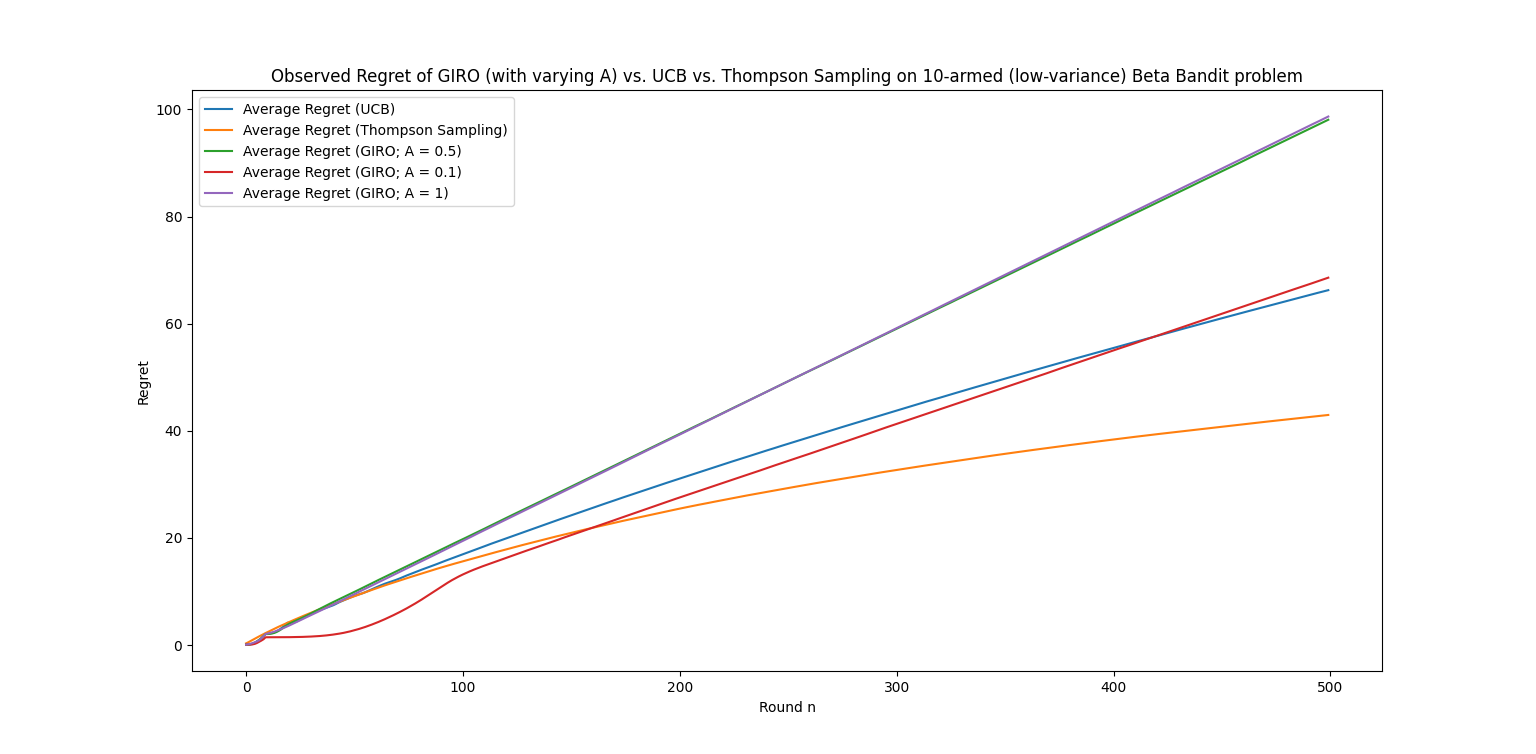
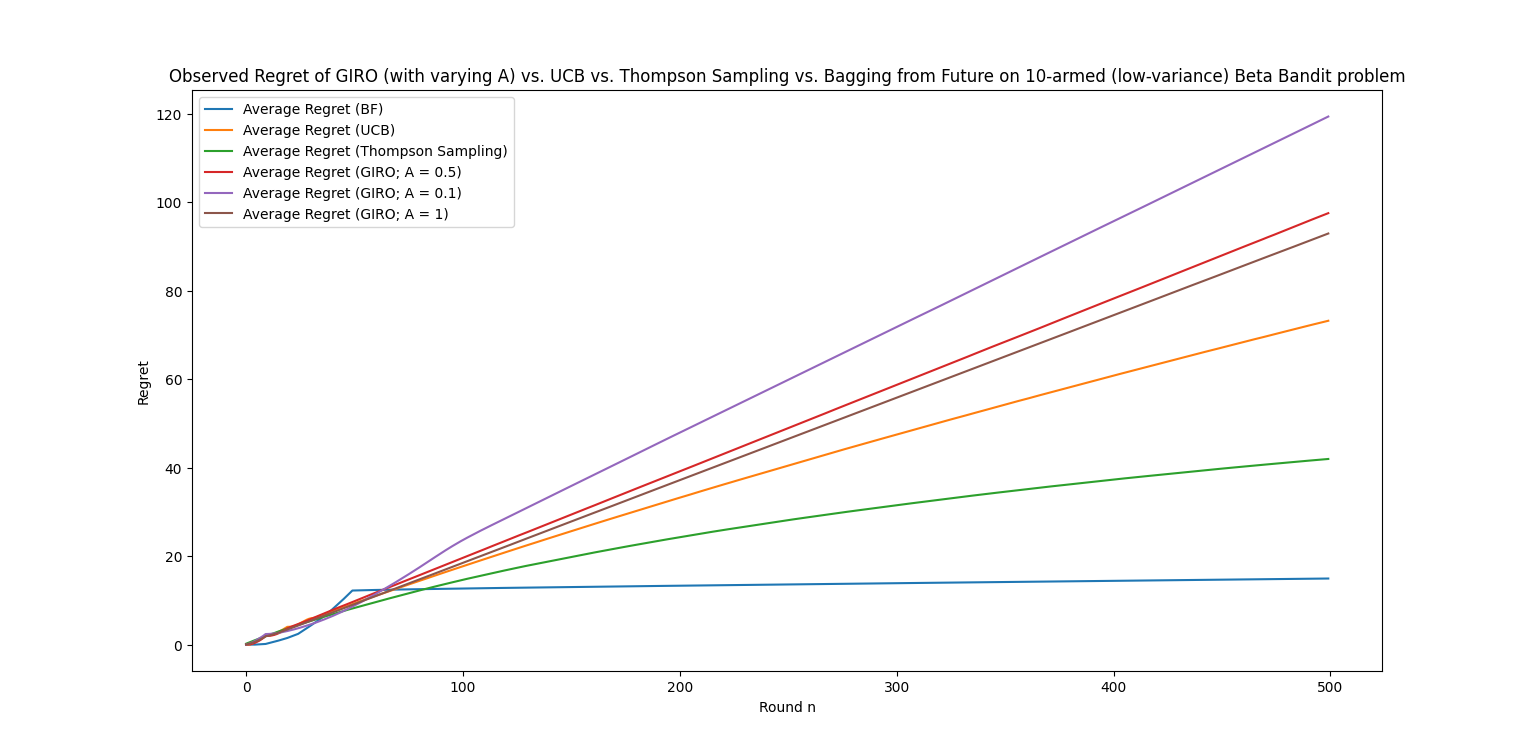
Added Bagging from Future

diff --git a/giro_non_contextual.py b/giro_non_contextual.py
@@ -6,7 +6,7 @@ import math
 
 def GIRO_arm_estimates_factory_function(A):
 
-    def GIRO_arm_estimates_function(history, t):
+    def GIRO_arm_estimates_function(history, t, N):
         num_arms = len(history)
         arm_estimates_current_round = np.zeros(shape=K)
         for j in range(num_arms):
@@ -39,7 +39,7 @@ def GIRO_arm_estimates_factory_function(A):
     return GIRO_arm_estimates_function
 
 
-def UCB_arm_estimates_function(history, t):
+def UCB_arm_estimates_function(history, t, N):
 
     num_arms = len(history)
     arm_estimates_current_round = np.zeros(shape=K)
@@ -58,7 +58,7 @@ def UCB_arm_estimates_function(history, t):
     return arm_estimates_current_round
 
 
-def TS_arm_estimates_function(history, t):
+def TS_arm_estimates_function(history, t, N):
     num_arms = len(history)
     arm_estimates_current_round = np.zeros(shape=K)
 
@@ -67,6 +67,27 @@ def TS_arm_estimates_function(history, t):
         alpha_j = np.count_nonzero(history[j])
         beta_j = s - alpha_j
         arm_estimates_current_round[j] = random.beta(alpha_j + 1, beta_j + 1, size=1)
+
+    return arm_estimates_current_round
+
+def bagging_from_future_arm_estimates(history, t, N):
+    num_arms = len(history)
+    arm_estimates_current_round = np.zeros(shape=K)
+
+    for j in range(num_arms):
+        s = len(history[j])
+
+        if (s < 5):
+            arm_estimates_current_round[j] = np.inf
+        else:
+            rewards = np.zeros(shape=N)
+            uniform_sample = random.randint(low = 0, high = s-1, size = N - s)
+            for i in range(N):
+                if (i < s):
+                    rewards[i] = history[j][i]
+                else:
+                    rewards[i] = history[j][uniform_sample[i-s]]
+            arm_estimates_current_round[j] = np.mean(rewards)
 
     return arm_estimates_current_round
 
@@ -110,7 +131,7 @@ def simulate_stochastic_bandit_problem(K, T, generate_reward, compute_arm_estima
 
         for i in range(T):
             # estimate arm values 
-            arm_estimates_current_round = compute_arm_estimates(history, i)
+            arm_estimates_current_round = compute_arm_estimates(history, i, T)
 
             # get maximum estimate 
             # of the pulled arm
@@ -143,36 +164,39 @@ def simulate_stochastic_bandit_problem(K, T, generate_reward, compute_arm_estima
 T = 500
 K = 10
 
+plt.plot(range(T), simulate_stochastic_bandit_problem(K = K, T = T, generate_reward = bernoulli_bandit, compute_arm_estimates = bagging_from_future_arm_estimates), label="Average Regret (BF)")
 plt.plot(range(T), simulate_stochastic_bandit_problem(K= K, T = T, generate_reward = bernoulli_bandit, compute_arm_estimates = UCB_arm_estimates_function), label="Average Regret (UCB)")
 plt.plot(range(T), simulate_stochastic_bandit_problem(K= K, T = T, generate_reward = bernoulli_bandit, compute_arm_estimates = TS_arm_estimates_function), label="Average Regret (Thompson Sampling)")
 plt.plot(range(T), simulate_stochastic_bandit_problem(K = K, T = T, generate_reward = bernoulli_bandit, compute_arm_estimates = GIRO_arm_estimates_factory_function(0.5)), label="Average Regret (GIRO; A = 0.5)")
 plt.plot(range(T), simulate_stochastic_bandit_problem(K = K, T = T, generate_reward = bernoulli_bandit, compute_arm_estimates = GIRO_arm_estimates_factory_function(0.1)), label="Average Regret (GIRO; A = 0.1)")
 plt.plot(range(T), simulate_stochastic_bandit_problem(K = K, T = T, generate_reward = bernoulli_bandit, compute_arm_estimates = GIRO_arm_estimates_factory_function(1)), label="Average Regret (GIRO; A = 1)")
-plt.title("Observed Regret of GIRO (with varying A) vs. UCB vs. Thompson Sampling on 10-armed Bernoulli Bandit problem")
+plt.title("Observed Regret of GIRO (with varying A) vs. UCB vs. Thompson Sampling vs. Bagging from Future on 10-armed Bernoulli Bandit problem")
 
 plt.legend()
 plt.ylabel('Regret')
 plt.xlabel('Round n')
 plt.show()
 
+plt.plot(range(T), simulate_stochastic_bandit_problem(K = K, T = T, generate_reward = beta_bandit_factory(nu=4), compute_arm_estimates = bagging_from_future_arm_estimates), label="Average Regret (BF)")
 plt.plot(range(T), simulate_stochastic_bandit_problem(K= K, T = T, generate_reward = beta_bandit_factory(nu=4), compute_arm_estimates = UCB_arm_estimates_function), label="Average Regret (UCB)")
 plt.plot(range(T), simulate_stochastic_bandit_problem(K= K, T = T, generate_reward = beta_bandit_factory(nu=4, ts=True), compute_arm_estimates = TS_arm_estimates_function), label="Average Regret (Thompson Sampling)")
 plt.plot(range(T), simulate_stochastic_bandit_problem(K = K, T = T, generate_reward = beta_bandit_factory(nu=4), compute_arm_estimates = GIRO_arm_estimates_factory_function(0.5)), label="Average Regret (GIRO; A = 0.5)")
 plt.plot(range(T), simulate_stochastic_bandit_problem(K = K, T = T, generate_reward = beta_bandit_factory(nu=4), compute_arm_estimates = GIRO_arm_estimates_factory_function(0.1)), label="Average Regret (GIRO; A = 0.1)")
 plt.plot(range(T), simulate_stochastic_bandit_problem(K = K, T = T, generate_reward = beta_bandit_factory(nu=4), compute_arm_estimates = GIRO_arm_estimates_factory_function(1)), label="Average Regret (GIRO; A = 1)")
-plt.title("Observed Regret of GIRO (with varying A) vs. UCB vs. Thompson Sampling on 10-armed (high-variance) Beta Bandit problem")
+plt.title("Observed Regret of GIRO (with varying A) vs. UCB vs. Thompson Sampling vs. Bagging from Future on 10-armed (high-variance) Beta Bandit problem")
 
 plt.legend()
 plt.ylabel('Regret')
 plt.xlabel('Round n')
 plt.show()
 
+plt.plot(range(T), simulate_stochastic_bandit_problem(K = K, T = T, generate_reward = beta_bandit_factory(nu=16), compute_arm_estimates = bagging_from_future_arm_estimates), label="Average Regret (BF)")
 plt.plot(range(T), simulate_stochastic_bandit_problem(K= K, T = T, generate_reward = beta_bandit_factory(nu=16), compute_arm_estimates = UCB_arm_estimates_function), label="Average Regret (UCB)")
 plt.plot(range(T), simulate_stochastic_bandit_problem(K= K, T = T, generate_reward = beta_bandit_factory(nu=16, ts=True), compute_arm_estimates = TS_arm_estimates_function), label="Average Regret (Thompson Sampling)")
 plt.plot(range(T), simulate_stochastic_bandit_problem(K = K, T = T, generate_reward = beta_bandit_factory(nu=16), compute_arm_estimates = GIRO_arm_estimates_factory_function(0.5)), label="Average Regret (GIRO; A = 0.5)")
 plt.plot(range(T), simulate_stochastic_bandit_problem(K = K, T = T, generate_reward = beta_bandit_factory(nu=16), compute_arm_estimates = GIRO_arm_estimates_factory_function(0.1)), label="Average Regret (GIRO; A = 0.1)")
 plt.plot(range(T), simulate_stochastic_bandit_problem(K = K, T = T, generate_reward = beta_bandit_factory(nu=16), compute_arm_estimates = GIRO_arm_estimates_factory_function(1)), label="Average Regret (GIRO; A = 1)")
-plt.title("Observed Regret of GIRO (with varying A) vs. UCB vs. Thompson Sampling on 10-armed (low-variance) Beta Bandit problem")
+plt.title("Observed Regret of GIRO (with varying A) vs. UCB vs. Thompson Sampling vs. Bagging from Future on 10-armed (low-variance) Beta Bandit problem")
 
 plt.legend()
 plt.ylabel('Regret')
